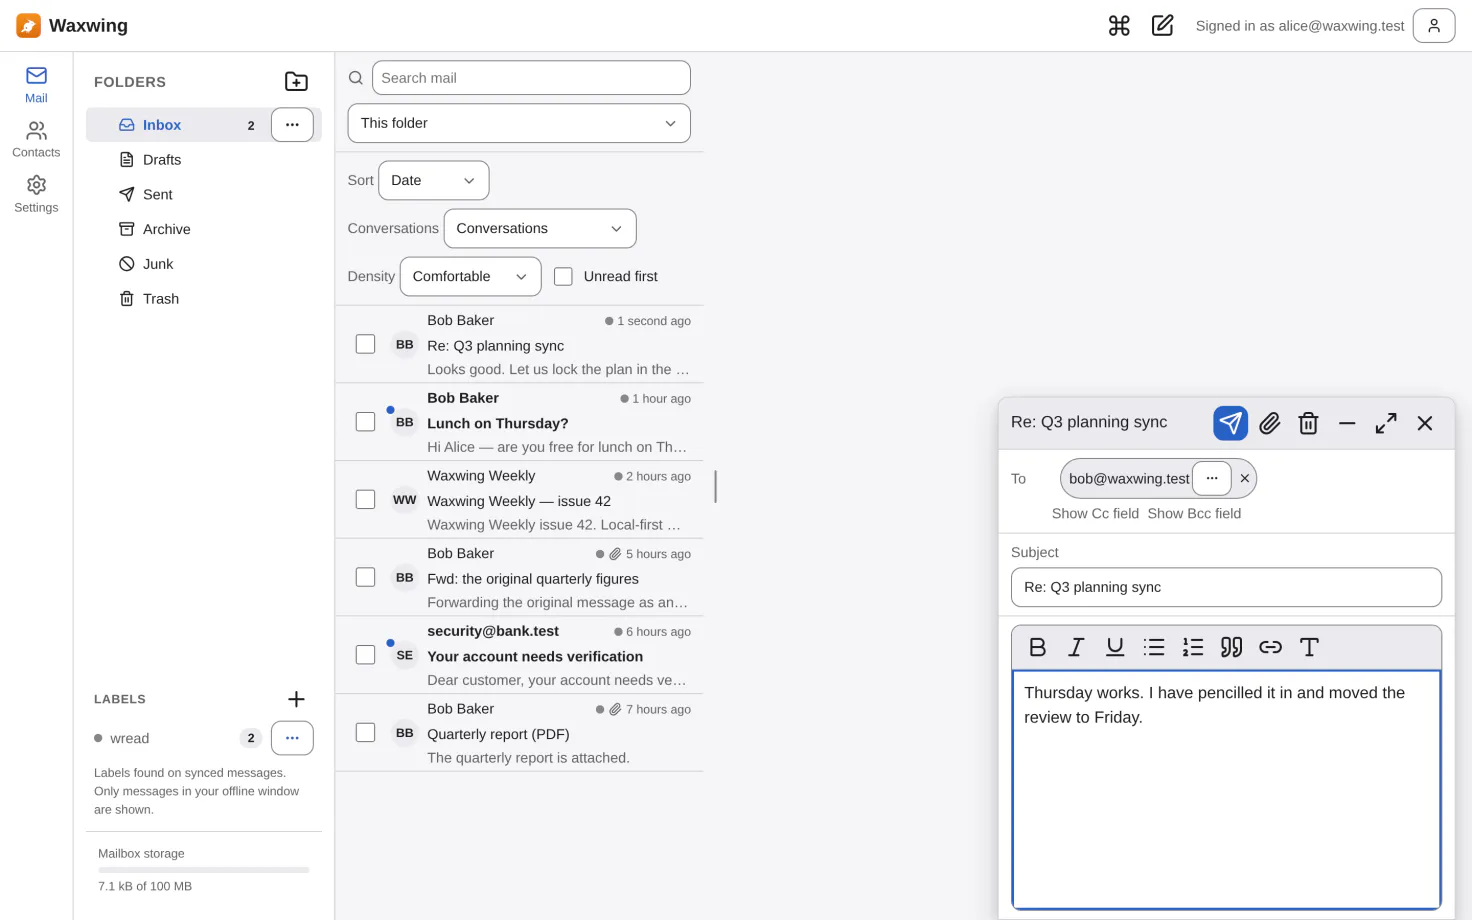
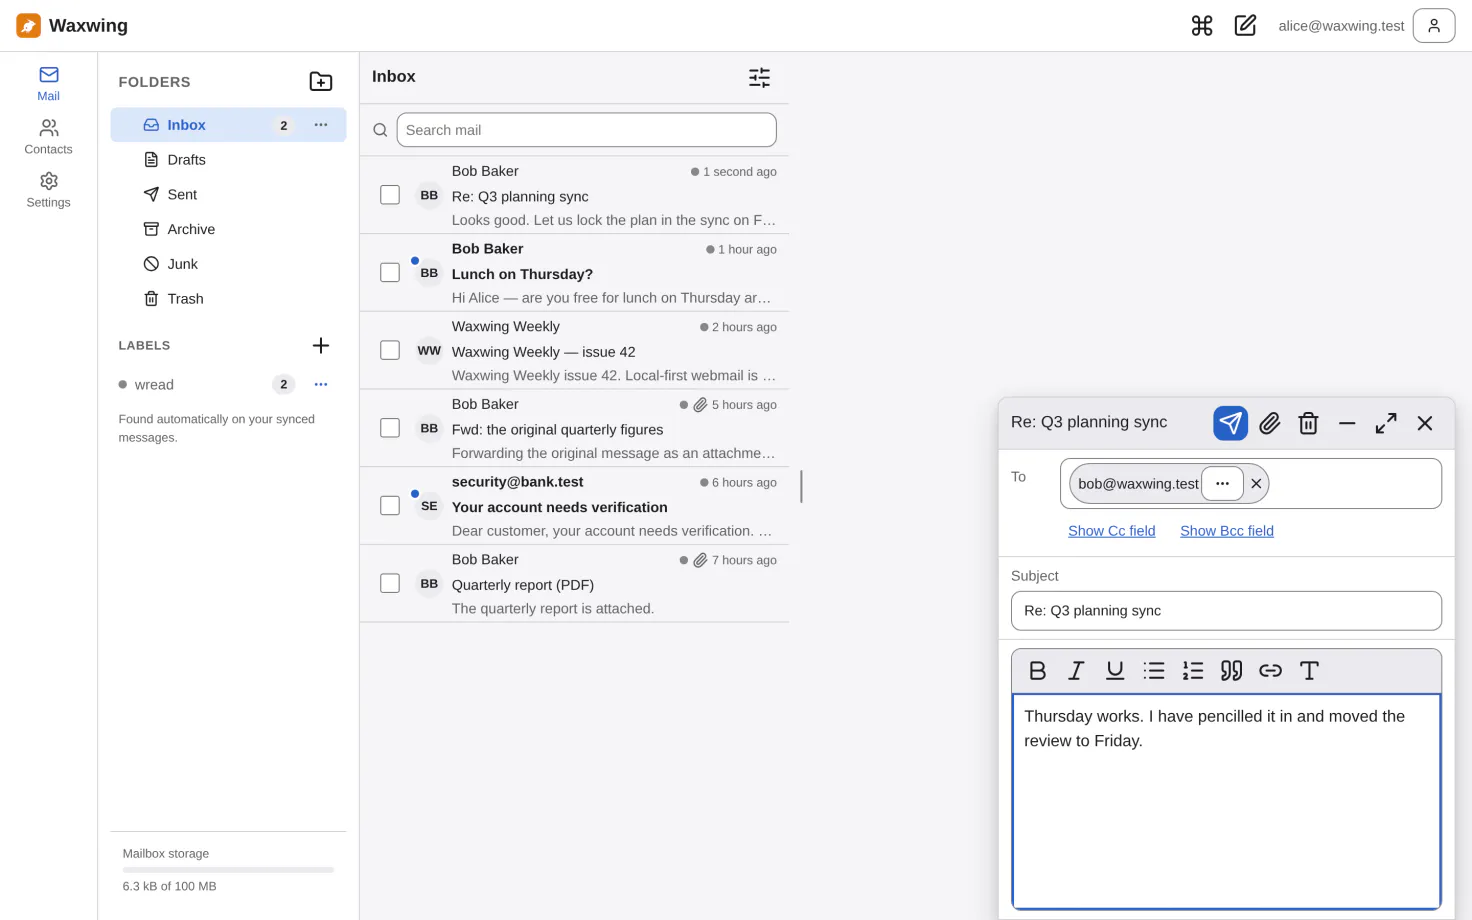
chore(release): v0.11.0 — the audit round, with the pictures redrawn
Screenshots regenerated because the layout they showed no longer exists: the phone list now fits
seven messages where it fit five, the folder title is on screen, and Compose sits within a thumb's
reach instead of in the far corner.

Redrawing them also caught a false positive in the rule that decides whether a message brings its
own presentation. The fixture's newsletter was being forced to black-on-white — a white sheet in the
middle of the dark theme — because of a single `width=` attribute, which turned out to be on a 1x1
tracking pixel. The width of an image says nothing about a document's colours or its measure, so it
no longer counts as one; `<table`, `style=`, `bgcolor=` and `<font` still do. The dark screenshot
now shows a message on the card's own surface, which is what FR-UI-02 has been promising.

Verified before tagging: 3239 unit tests, 89 browser tests against live Stalwart, 256.16 kB gzipped
against a 300 kB budget, and all nine local references on the project site resolve.

diff --git a/apps/web/src/mail/MailBodyFrame.tsx b/apps/web/src/mail/MailBodyFrame.tsx
@@ -23,12 +23,17 @@ import styles from './reading.module.css'
  *  - **Width.** A designed HTML mail chose its own measure (typically 600 px); a plain-text message
  *    rendered here has none and ran to 87 characters a line on a desktop.
  *
- * `<table` and `width=` are in the list because they are what a designed mail is built from, not
- * because they carry colour: a newsletter laid out in tables must keep the width its author picked.
- * `class=` is deliberately NOT in it — `renderPlainText` stamps `class="waxwing-quote"` on collapsed
- * quotes, so including it would have excluded the very case this exists for.
+ * `<table` is in the list because it is what a designed mail is built from, not because it carries
+ * colour: a newsletter laid out in tables must keep the width its author picked.
+ *
+ * Two attributes are deliberately NOT in it, both because they fired on messages that declare
+ * nothing at all. `class=` — `renderPlainText` stamps `class="waxwing-quote"` on collapsed quotes,
+ * so it would have excluded the very case this exists for. And bare `width=`, which in the fixture's
+ * newsletter appears exactly once: on a 1x1 tracking pixel. The width of an image says nothing about
+ * the document's colours or its measure, and treating it as a layout signal forced a white sheet
+ * into the dark theme for the most ordinary kind of mail there is.
  */
-const AUTHORED = /(?:style\s*=|<table|width\s*=|bgcolor\s*=|<font)/i
+const AUTHORED = /(?:style\s*=|<table|bgcolor\s*=|<font)/i
 
 /** Read a design token off the document, so the frame follows the live theme and any `theme.css`. */
 function token(name: string, fallback: string): string {
